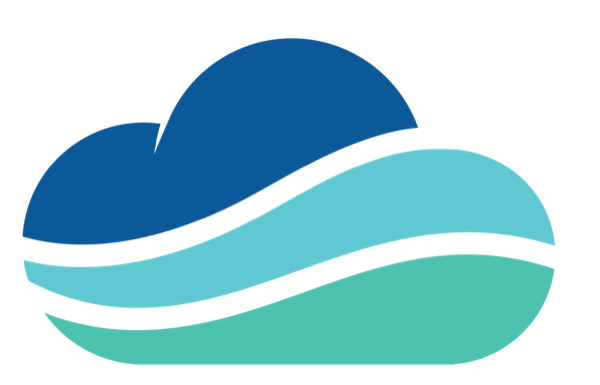
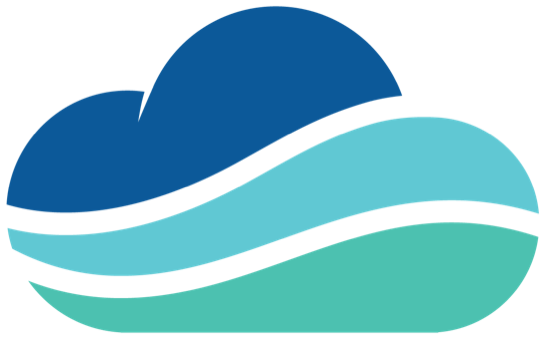
feat(www): cloud mark only (no wordmark, no white chip) in header and footer

diff --git a/src/components/Header.tsx b/src/components/Header.tsx
@@ -18,18 +18,15 @@ const LINKS = [
   { href: "#contact-sec", key: "contact" },
 ] as const;
 
-/** The logo artwork is dark ink on transparent, so on a dark background it sits
-    on a white chip — the same treatment the footer uses. */
+/** The Packiko cloud mark — coloured artwork on transparent, reads on light and dark. */
 function Logo({ className = "" }: { className?: string }) {
   return (
-    <span
-      className={`inline-flex rounded-lg dark:bg-white dark:px-2 dark:py-1 ${className}`}
-    >
+    <span className={`inline-flex items-center ${className}`}>
       <Image
-        src="/brand/packiko-logo.png"
+        src="/brand/packiko-mark.png"
         alt="Packiko by ThaiCloud"
-        width={1000}
-        height={282}
+        width={544}
+        height={340}
         priority
         className="h-10 w-auto"
       />

diff --git a/src/components/Footer.tsx b/src/components/Footer.tsx
@@ -18,8 +18,8 @@ export default function Footer() {
       <div className="mx-auto w-full max-w-6xl px-5 sm:px-6">
         <div className="grid gap-10 text-center sm:text-left lg:grid-cols-[2fr_1fr_1fr_2fr]">
           <div>
-            <span className="inline-flex rounded-xl bg-white px-3 py-2">
-              <Image src="/brand/packiko-logo.png" alt="Packiko by ThaiCloud" width={1000} height={282} className="h-10 w-auto" />
+            <span className="inline-flex">
+              <Image src="/brand/packiko-mark.png" alt="Packiko by ThaiCloud" width={544} height={340} className="h-12 w-auto" />
             </span>
             <p className="mx-auto mt-4 max-w-xs text-sm leading-relaxed sm:mx-0">{t.footer.blurb}</p>
             <div className="mt-5 flex justify-center gap-2 sm:justify-start">
